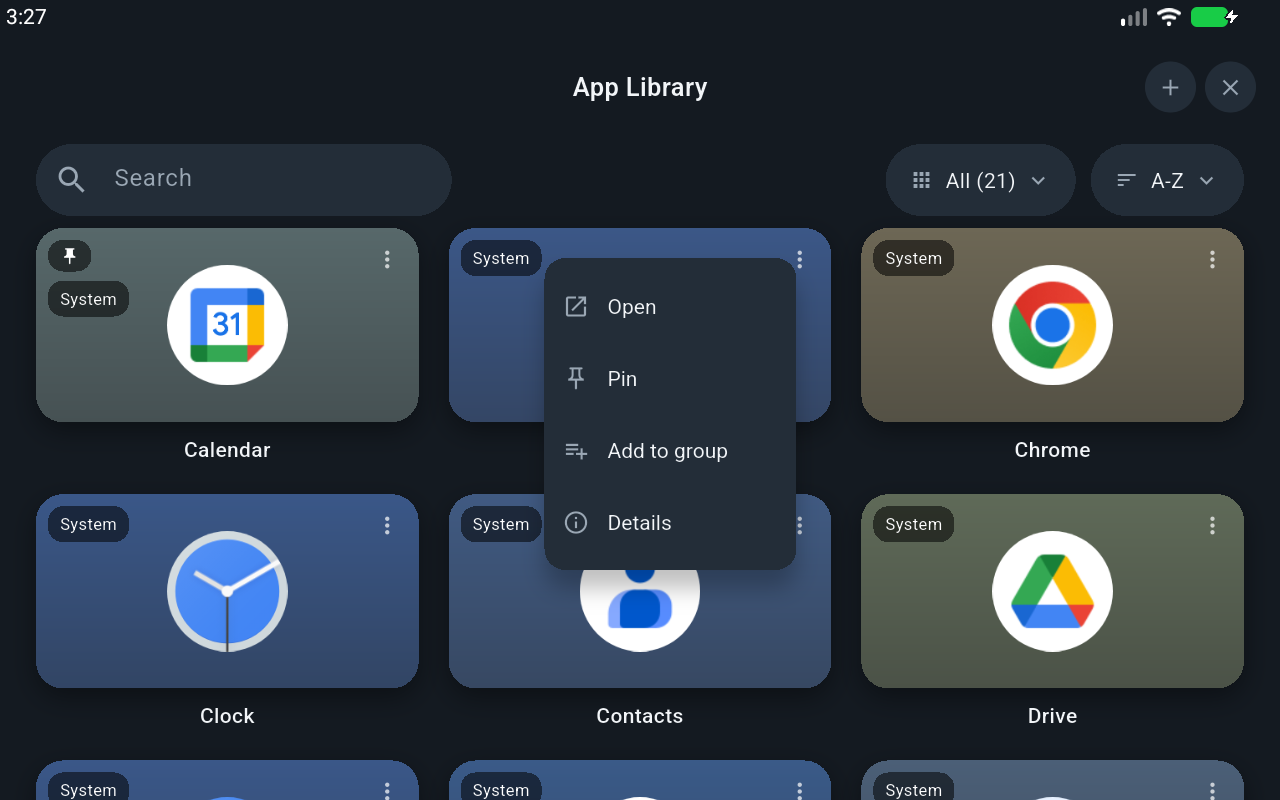
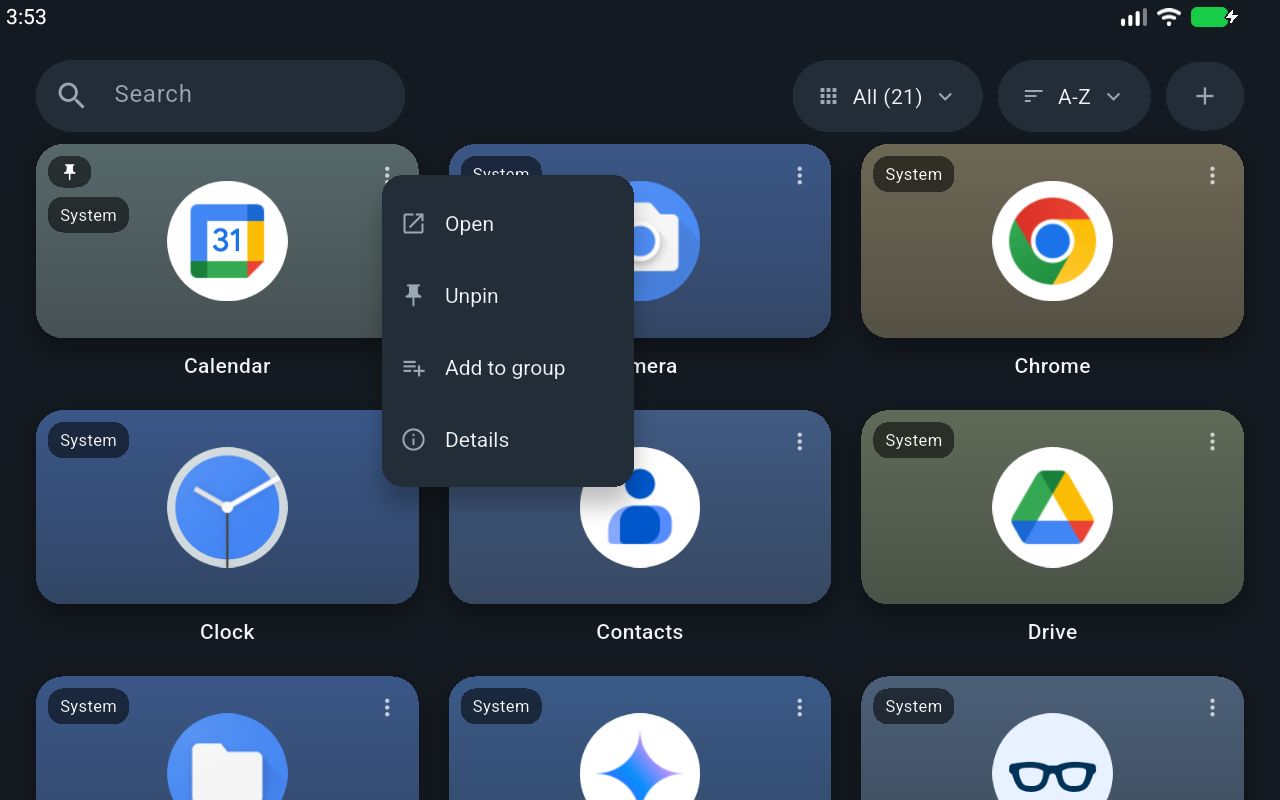
去掉标题栏，窗口栏交给 vrhome 画；安装按钮挪到控制条

diff --git a/library/lib/src/ui/library_page.dart b/library/lib/src/ui/library_page.dart
@@ -1,5 +1,4 @@
 import 'package:flutter/material.dart';
-import 'package:flutter/services.dart';
 
 import '../../l10n/app_localizations.dart';
 import '../library_controller.dart';
@@ -50,10 +49,8 @@ class _LibraryPageState extends State<LibraryPage> {
           body: SafeArea(
             child: Column(
               children: [
-                const SizedBox(height: 14),
-                _header(l10n),
-                const SizedBox(height: 18),
-                _controls(),
+                const SizedBox(height: 16),
+                _controls(l10n),
                 Expanded(child: _body(l10n)),
               ],
             ),
@@ -63,47 +60,7 @@ class _LibraryPageState extends State<LibraryPage> {
     );
   }
 
-  Widget _header(AppLocalizations l10n) {
-    return SizedBox(
-      height: 40,
-      child: Stack(
-        children: [
-          Center(
-            child: Text(
-              l10n.appTitle,
-              style: const TextStyle(
-                fontSize: 17,
-                fontWeight: FontWeight.w600,
-                color: LibraryTheme.textPrimary,
-              ),
-            ),
-          ),
-          Positioned(
-            right: 16,
-            top: 0,
-            bottom: 0,
-            child: Row(
-              children: [
-                _HeaderIcon(
-                  icon: Icons.add,
-                  tooltip: l10n.installApp,
-                  onTap: () => _c.installApk(),
-                ),
-                const SizedBox(width: 6),
-                _HeaderIcon(
-                  icon: Icons.close,
-                  tooltip: l10n.cancel,
-                  onTap: () => SystemNavigator.pop(),
-                ),
-              ],
-            ),
-          ),
-        ],
-      ),
-    );
-  }
-
-  Widget _controls() {
+  Widget _controls(AppLocalizations l10n) {
     return Padding(
       padding: const EdgeInsets.symmetric(horizontal: 24),
       child: Row(
@@ -121,6 +78,12 @@ class _LibraryPageState extends State<LibraryPage> {
           ),
           const SizedBox(width: 10),
           SortDropdown(store: _store),
+          const SizedBox(width: 10),
+          _PillButton(
+            icon: Icons.add,
+            tooltip: l10n.installApp,
+            onTap: () => _c.installApk(),
+          ),
         ],
       ),
     );
@@ -290,8 +253,8 @@ class _LibraryPageState extends State<LibraryPage> {
   }
 }
 
-class _HeaderIcon extends StatelessWidget {
-  const _HeaderIcon({
+class _PillButton extends StatelessWidget {
+  const _PillButton({
     required this.icon,
     required this.tooltip,
     required this.onTap,
@@ -307,13 +270,13 @@ class _HeaderIcon extends StatelessWidget {
       message: tooltip,
       child: Material(
         color: LibraryTheme.surface,
-        shape: const CircleBorder(),
+        borderRadius: BorderRadius.circular(LibraryTheme.pillRadius),
         child: InkWell(
-          customBorder: const CircleBorder(),
+          borderRadius: BorderRadius.circular(LibraryTheme.pillRadius),
           onTap: onTap,
           child: Padding(
-            padding: const EdgeInsets.all(8),
-            child: Icon(icon, size: 18, color: LibraryTheme.textSecondary),
+            padding: const EdgeInsets.symmetric(horizontal: 16, vertical: 13),
+            child: Icon(icon, size: 20, color: LibraryTheme.textSecondary),
           ),
         ),
       ),

diff --git a/library/test/widget_test.dart b/library/test/widget_test.dart
@@ -1,3 +1,4 @@
+import 'package:flutter/material.dart';
 import 'package:flutter_test/flutter_test.dart';
 import 'package:pn2_library/main.dart';
 import 'package:pn2_library/src/library_controller.dart';
@@ -13,7 +14,7 @@ void main() {
     addTearDown(src.dispose);
     await tester.pumpWidget(LibraryApp(controller: fakeController(src)));
     await tester.pumpAndSettle();
-    expect(find.text('App Library'), findsOneWidget);
+    expect(find.byIcon(Icons.add), findsOneWidget); // install pill
     expect(find.text('VR Home'), findsOneWidget);
     expect(find.text('Settings'), findsOneWidget);
   });
